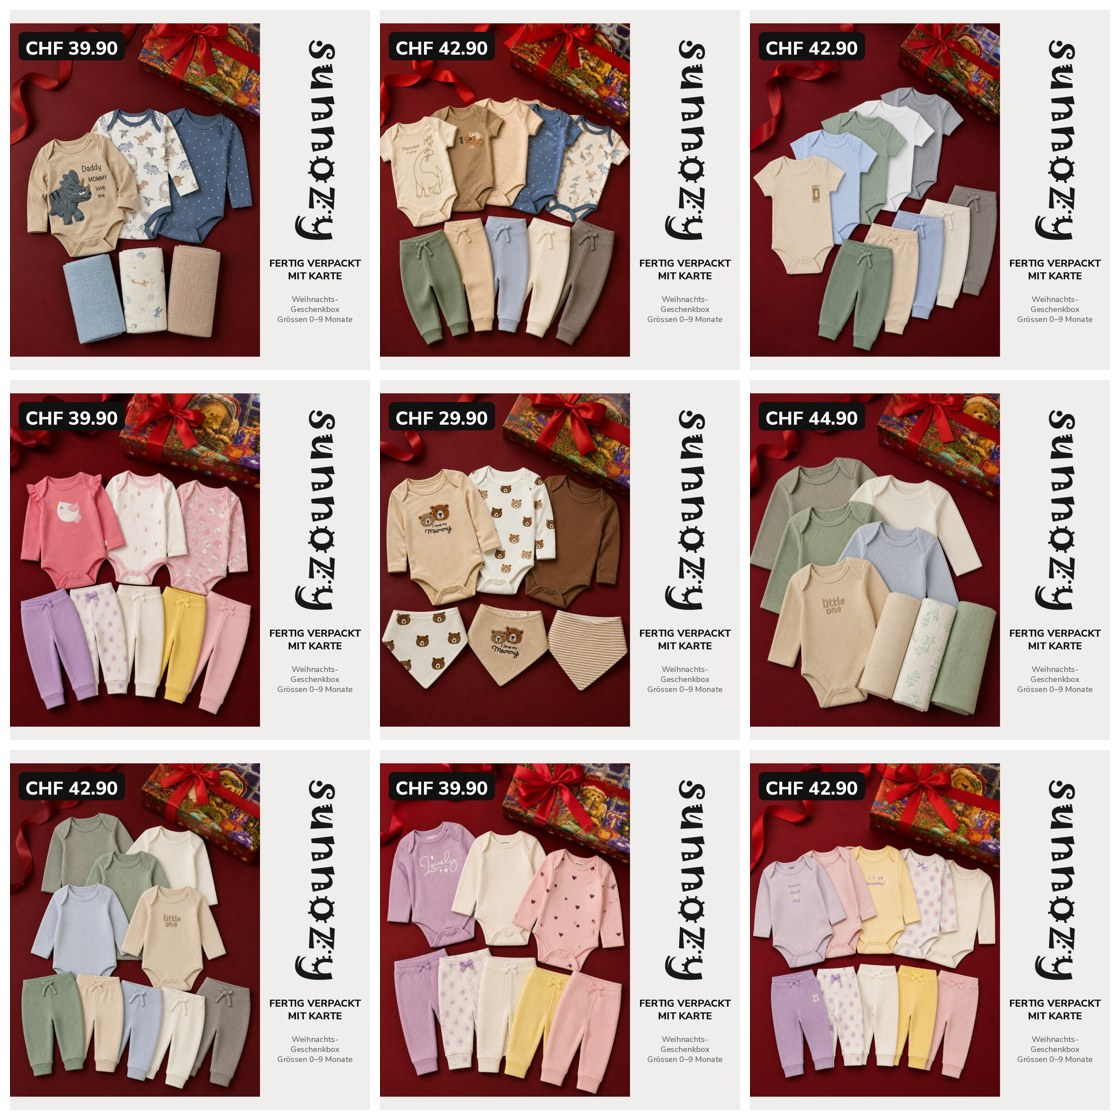
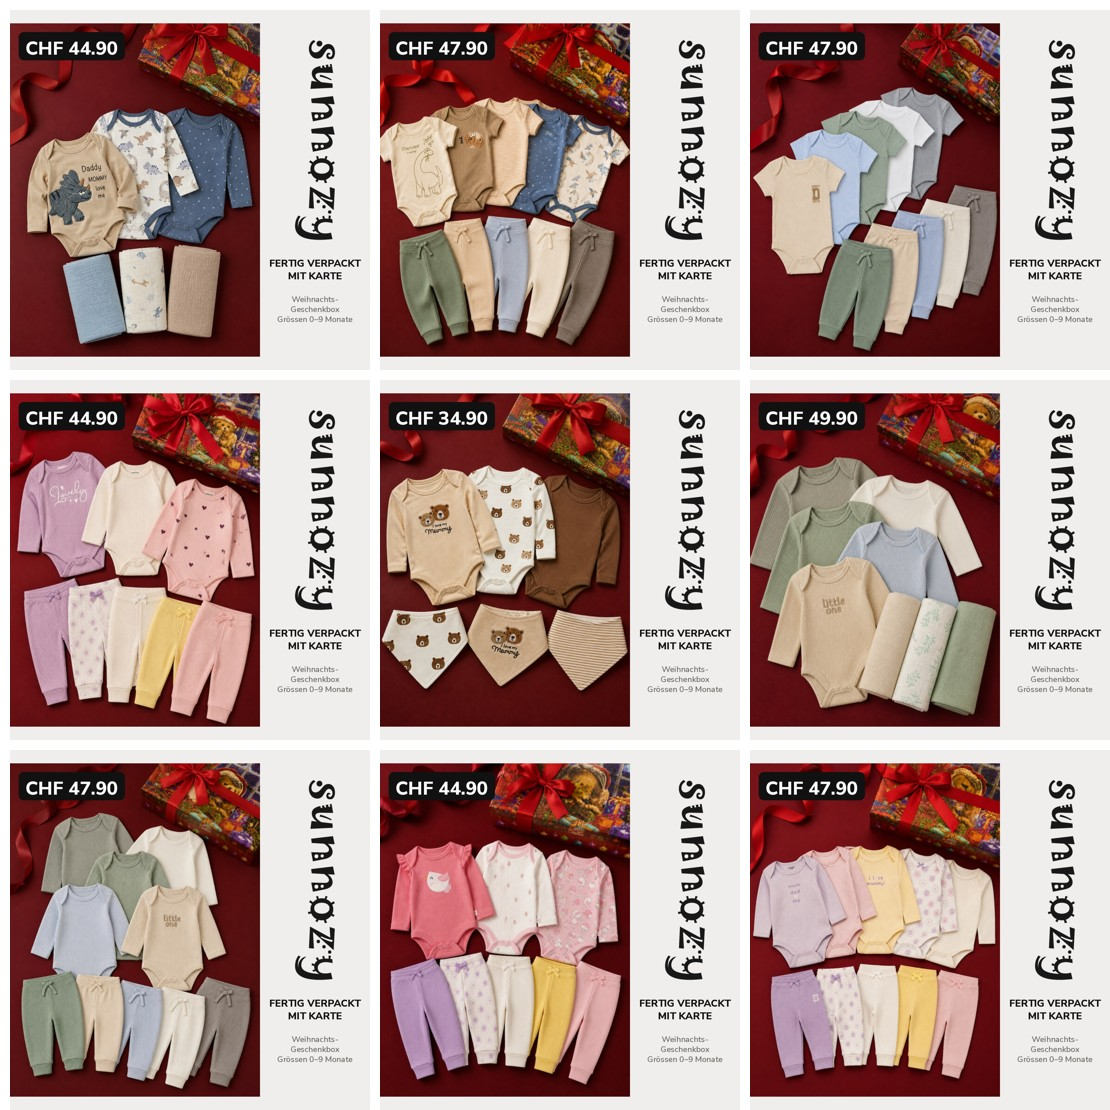
Flatlay-Anzeigen Geschenkboxen: Preise wie in Shopify (Stand 17.11.2026)
Claude-Session: https://claude.ai/code/session_01Mcsz2CcqhytaxPLftYR6o2

diff --git a/sunnozy-content/tools/make_flatlay_ads.py b/sunnozy-content/tools/make_flatlay_ads.py
@@ -13,7 +13,7 @@ import os, sys, glob
 from PIL import Image, ImageDraw, ImageFont
 
 ROOT = os.path.dirname(os.path.dirname(os.path.abspath(__file__)))
-FL = os.path.join(ROOT, 'posts', 'kampagne-weihnachtsbox', 'rote-box', 'flatlay')
+FL = os.path.join(ROOT, 'posts', 'coming-soon', 'photos', 'kampagne-weihnachtsbox', 'rote-box', 'flatlay')
 F = lambda n, s: ImageFont.truetype(os.path.join(ROOT, 'fonts', n), int(s))
 HELL, SCHWARZ, GRAU = (239, 238, 236), (17, 17, 17), (110, 108, 104)
 BOX = {
@@ -125,7 +125,7 @@ def zu_offen(key):
     """Idee «Verpackt … und das ist drin»: links die geschlossene Box, rechts das Flatlay."""
     name, inh, preis = BOX[key]; W = H = 1080
     c = Image.new('RGB', (W, H), HELL)
-    zu = Image.open(os.path.join(ROOT, 'posts', 'kampagne-weihnachtsbox', 'rote-box', 'vorlage', 'vorlage_zu.jpg')).convert('RGB')
+    zu = Image.open(os.path.join(ROOT, 'posts', 'coming-soon', 'photos', 'kampagne-weihnachtsbox', 'rote-box', 'vorlage', 'vorlage_zu.jpg')).convert('RGB')
     s = max(530 / zu.width, 760 / zu.height); zu = zu.resize((round(zu.width * s), round(zu.height * s)), Image.LANCZOS)
     zu = zu.crop(((zu.width - 530) // 2, (zu.height - 760) // 2, (zu.width - 530) // 2 + 530, (zu.height - 760) // 2 + 760))
     c.paste(zu, (0, 170)); c.paste(foto(key, 530, 760), (550, 170))
